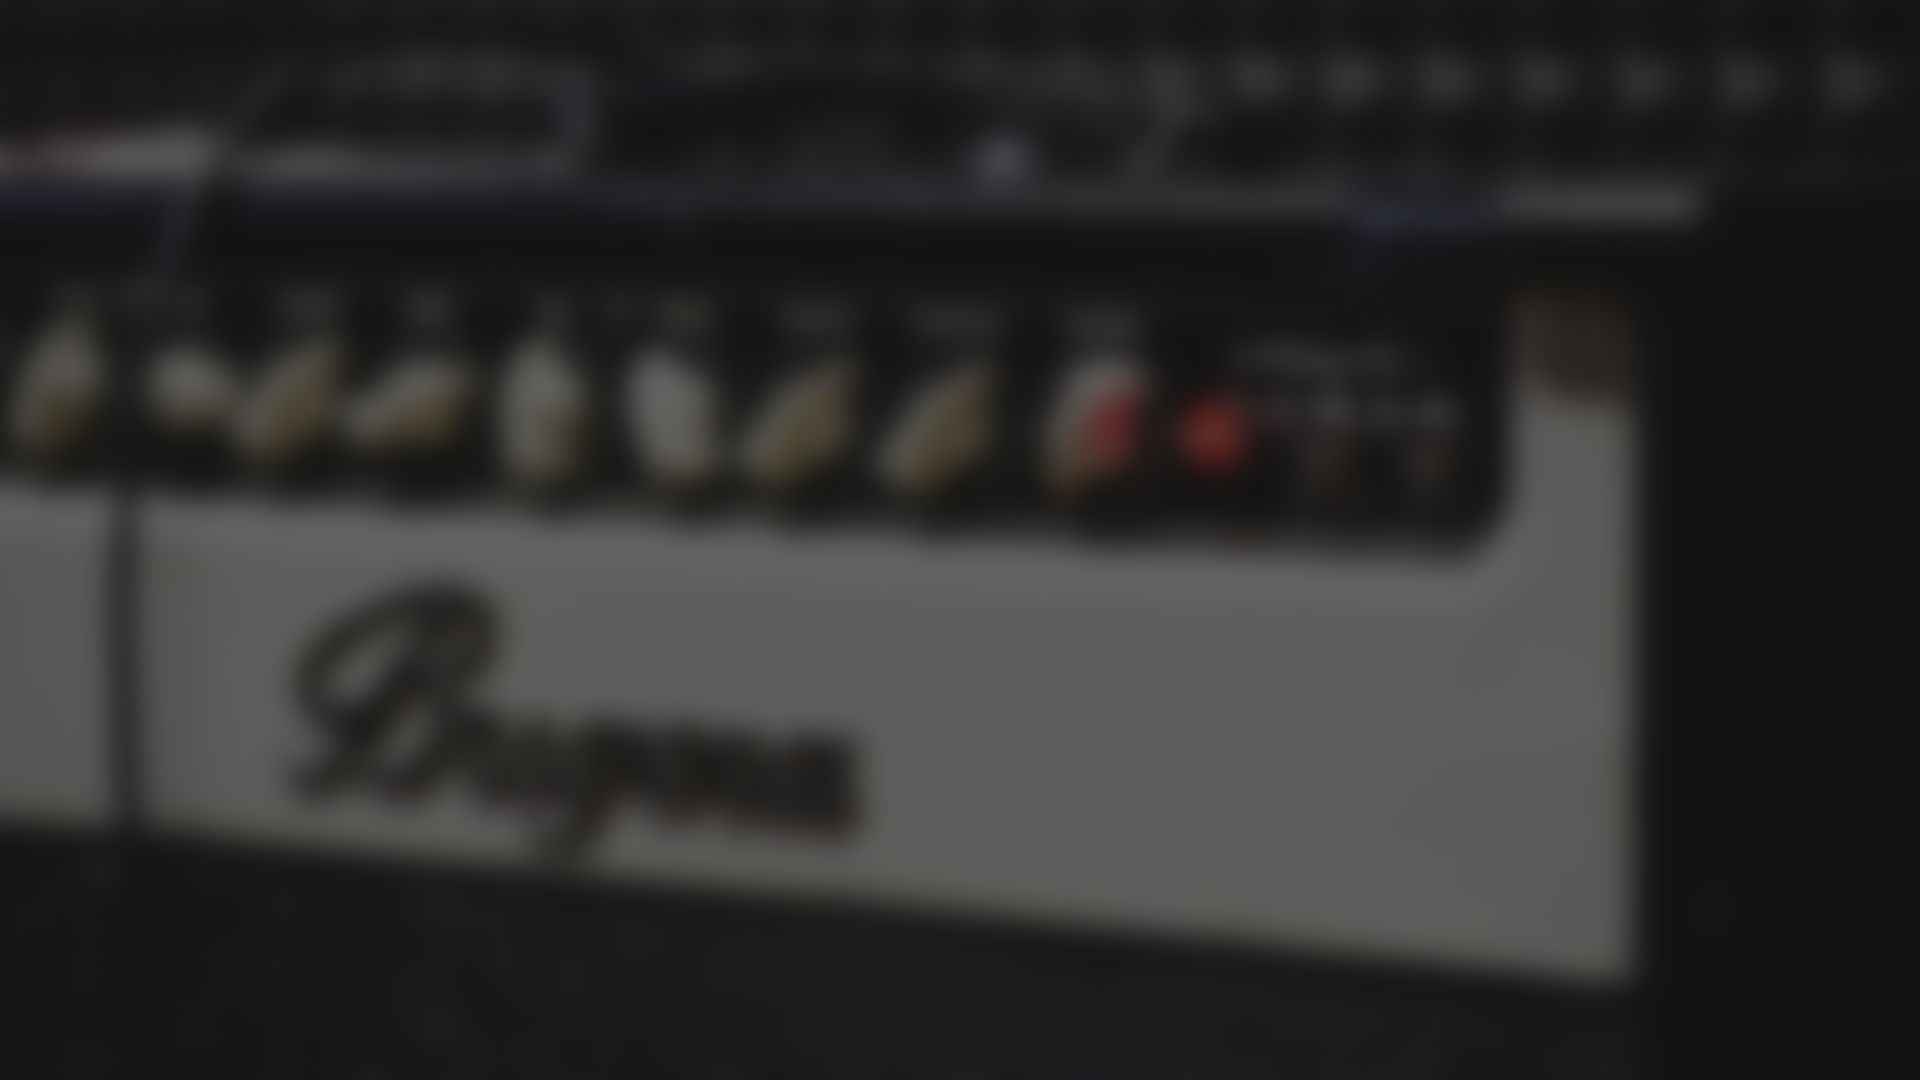
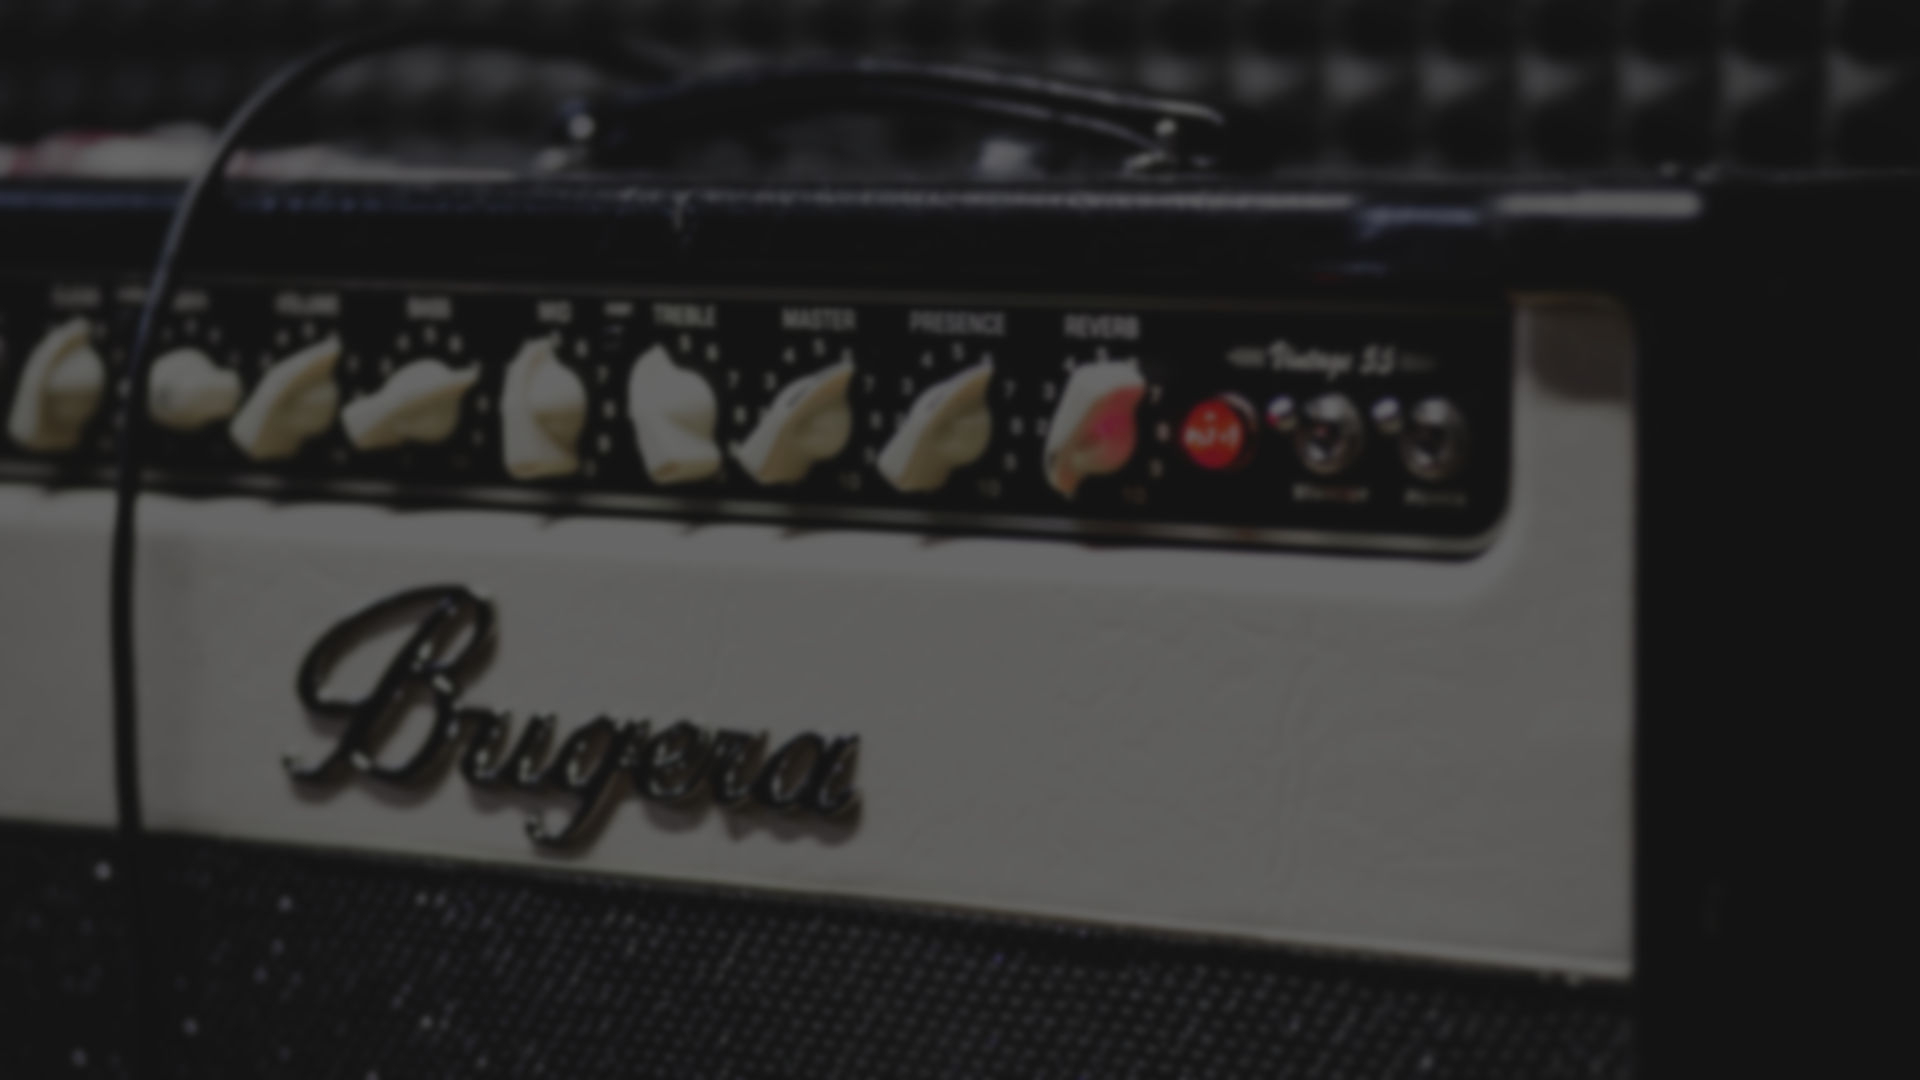
Lighten header

diff --git a/src/scss/application.scss b/src/scss/application.scss
@@ -39,6 +39,8 @@ header {
   background-size: cover;
   background-image: url('../assets/images/landing.jpg');
   background-attachment: fixed;
+
+  border-bottom: $border-size solid $color-primary;
 }
 
 .brand-landing {
@@ -134,6 +136,8 @@ header {
   background-size: cover;
   background-image: url('../assets/images/landing.jpg');
   background-position: center;
+
+  border-top: $border-size solid $color-primary;
 
   a {
     color: white;

diff --git a/src/scss/_variables.scss b/src/scss/_variables.scss
@@ -9,5 +9,7 @@
 
 $color-primary: #F45A3D;
 
-$color-border-inactive: #8c8881;
-$color-border-active: #b4b0a9;
+$color-border-inactive: #b1ada6;
+$color-border-active: #d3cfc8;
+
+$border-size: 3px;
